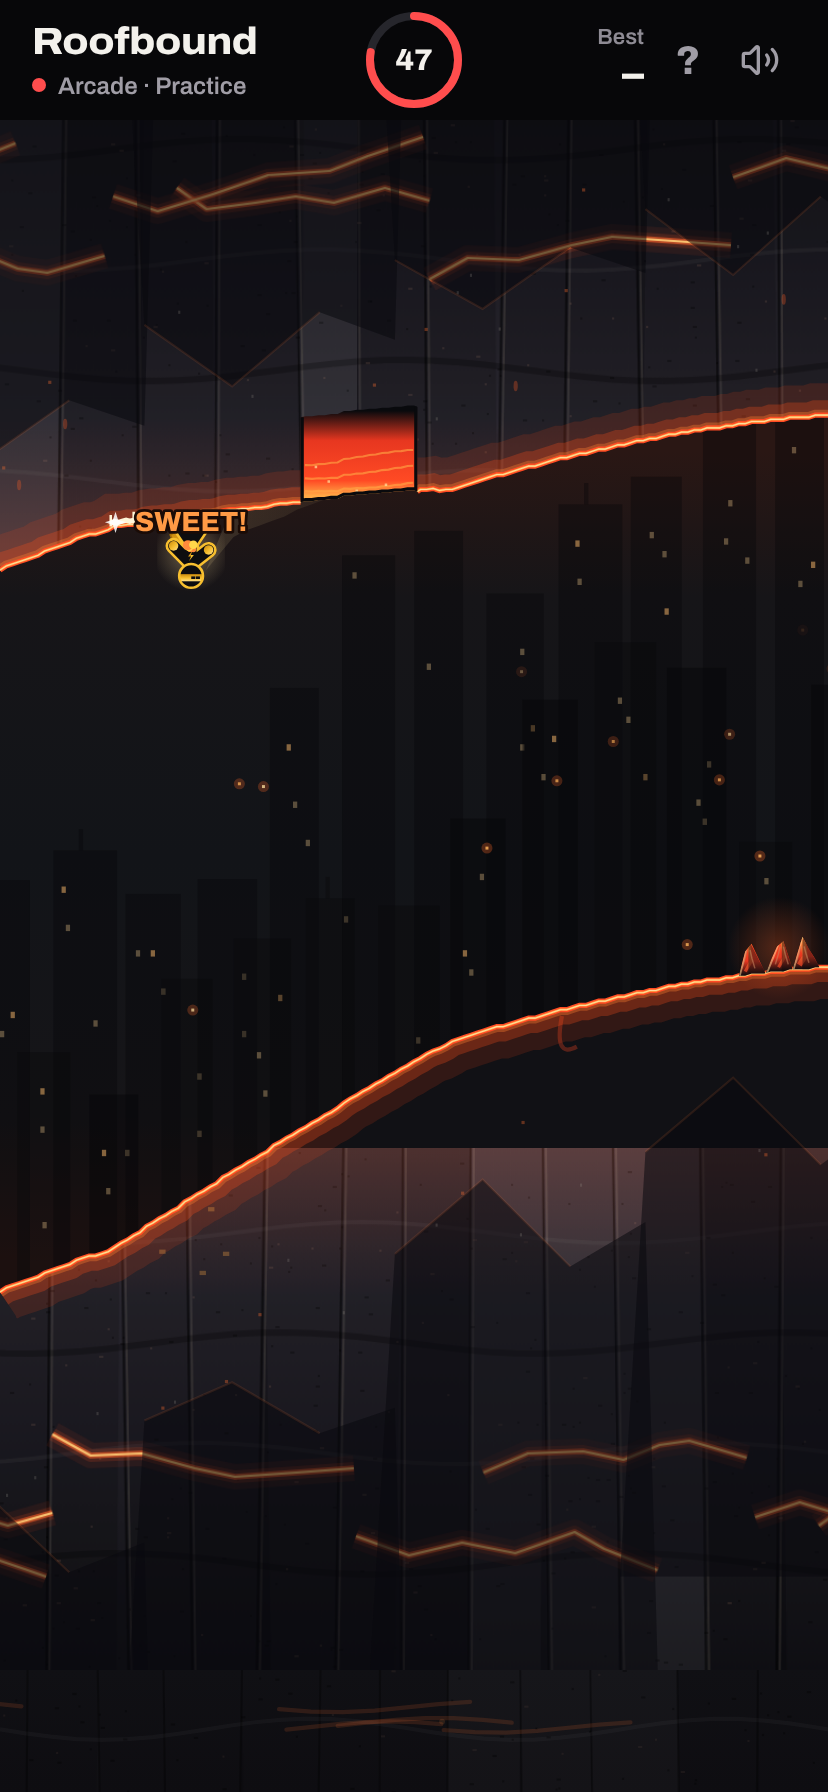
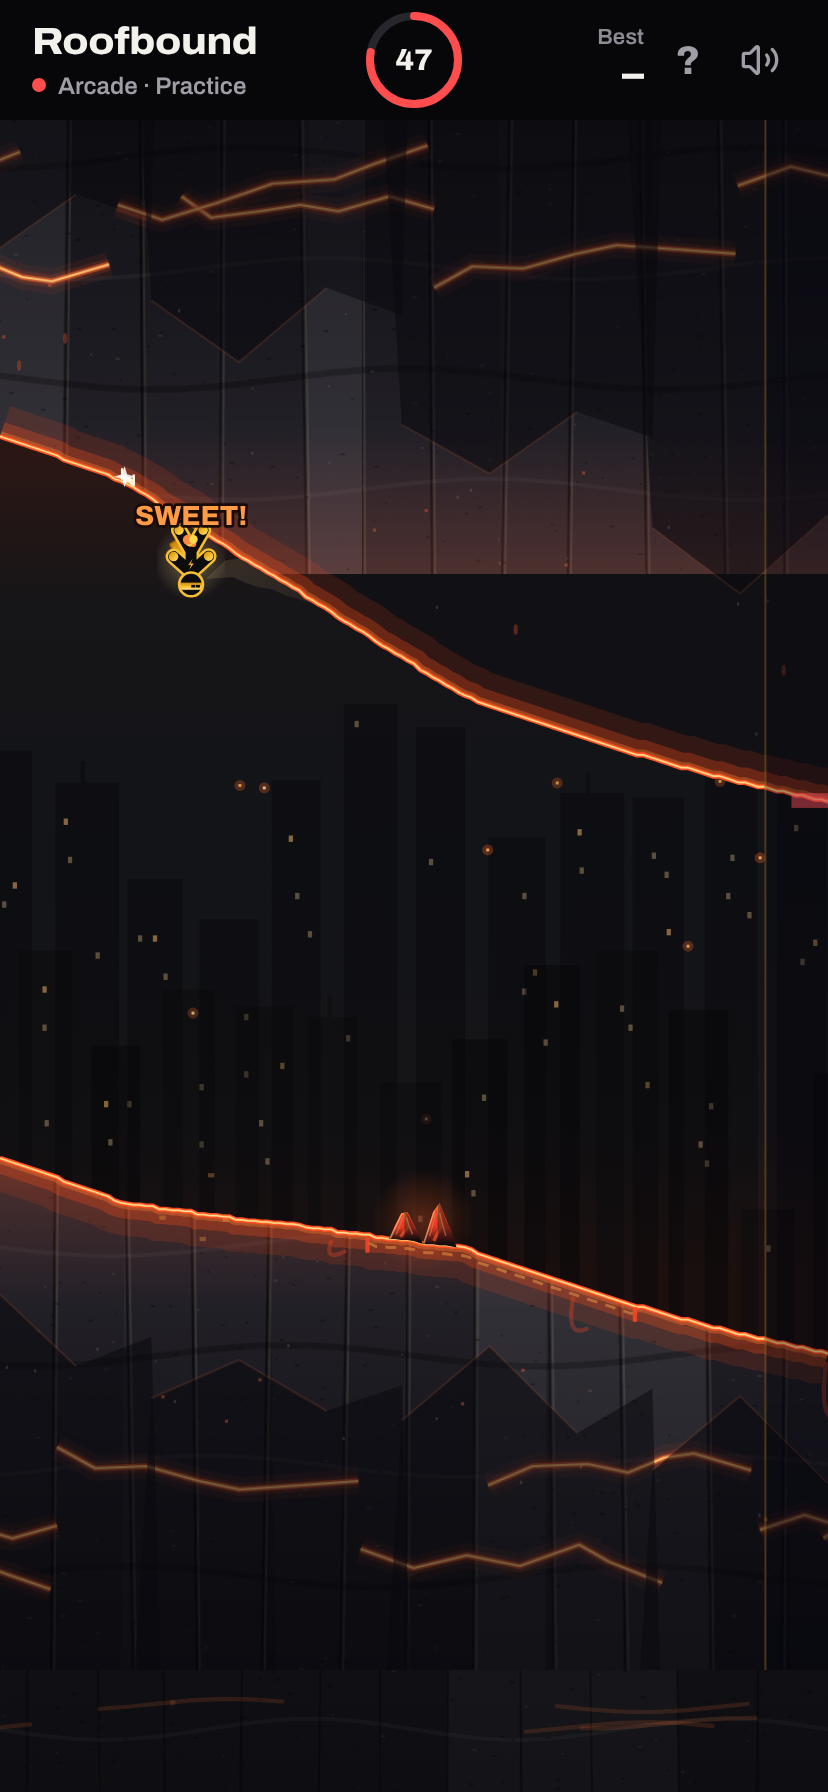
Roofbound flipRev 8, phase 2: the look-ahead strip in the help, screenshots, notes with both seed sets on the fixed bots
Claude-Session: https://claude.ai/code/session_01UG3aTDJSHREQsEn2vXbrXq

diff --git a/src/lib/duel/instructions.ts b/src/lib/duel/instructions.ts
@@ -939,6 +939,7 @@ function instructionTemplates(): Record<PuzzleType, PuzzleInstructions> {
         { action: "Double flips:", detail: "flip again within about an eighth of a second of landing with a hazard close by. A triple and longer chains count more, and twice as much in a speed zone.", helpOnly: true },
         { action: "Star trails:", detail: `${FLIP_V8_TRAILS} arcs of ${FLIP_V8_TRAIL_STARS} small stars, taken in the air. Leave the surface at the chevron and your flip sweeps through them.`, helpOnly: true },
         { action: "Sweet spots:", detail: `${FLIP_V8_SWEETS} roofs carry a short, faint pale strip. Time a flip so you touch down with your feet inside it for a sweet landing; it glints. Each counts once.`, helpOnly: true },
+        { action: "Look ahead:", detail: "a faint strip at the right edge shows what is coming next – hazards in red, gold stars and sweet spots – before it scrolls in.", helpOnly: true },
         { action: "Checkpoints (15, 30 and 45 s):", detail: "pass one and your next crash is saved – a second of shield, but your survival time pauses for 10 seconds.", helpOnly: true },
       ],
       score: liveBandHelp("flip", "Each half second you last counts 1 and each gold star 3.", {

diff --git a/docs/expansions/x200-flip.md b/docs/expansions/x200-flip.md
@@ -30,8 +30,9 @@ flip-x200-check on stored flipRev 6 runs).
 
 ## The new feature: sweet spots
 
-Each course has **eight sweet spots** (`FLIP_V8_SWEETS`): a short strip of roof, `FLIP_V8_SWEET_TICKS` = 2 ticks of travel
-long (about 8–14 px early in the run, 20–28 px late), placed by the seed near 6.5, 13, 19.5, 26, 32.5, 39, 45.5 and 52 s on
+Each course has **eight sweet spots** (`FLIP_V8_SWEETS`): a short strip of roof, `FLIP_V8_SWEET_TICKS` = 1 tick of travel
+long (about 4–7 px early in the run, 10–14 px late: exactly one landing tick fits, so a sweet landing needs the flip timed
+to the tick), placed by the seed near 6.5, 13, 19.5, 26, 32.5, 39, 45.5 and 52 s on
 one surface, on clear roof (no hazard, gap, crumble or moving spike's sweep within reach of it). A **sweet landing** is the
 tick a flip ends (`flipT` 1 → 0) with the runner's centre inside an untaken strip on its surface (`flipSweetLanding`); each
 spot counts once (`sweetGot` bits; `sweetT` the tick, for the glint). Running or standing over a strip never counts. Like
@@ -50,13 +51,24 @@ every other feature, the spots come only from the stored course, the same for ev
 ## Scoring (`flipV8Parts`, `flipV8Features`)
 
 - **Base** (the rev-6 shape): units = half seconds survived (the paused ticks left out) + 3 per gold star, on
-  `FLIP_V8_BAND_CURVE` (units 0 / 40 / 105 / 130 / 140 / 146 / 150 → 0 / 16 / 56 / 65 / 69 / 127 / 140), plus 10 for lasting
+  `FLIP_V8_BAND_CURVE` (units 0 / 40 / 105 / 130 / 140 / 146 / 150 → 0 / 11 / 33 / 38 / 43 / 95 / 140), plus 10 for lasting
   the minute: 150 at most, only for the full minute with all ten stars.
 - **Skill** (0–50): raw points 4 a full trail, 4 a sweet landing, 3 a speed zone run without a save, 3 a checkpoint reached
-  with no crash, and double-flip combo points up to 4 (`FLIP_V8_COMBO_CAP`), paid on `FLIP_V8_SKILL_PAY` (raw 12 / 32 / 49 /
-  57 / 63 → 3 / 4 / 26 / 39 / 50): a little feature play pays little; the full 50 needs `FLIP_V8_SKILL_FULL` = 63 raw, which
+  with no crash, and double-flip combo points up to 6 (`FLIP_V8_COMBO_CAP`), paid on `FLIP_V8_SKILL_PAY` (raw 12 / 30 / 37 /
+  61 / 63 → 0 / 1 / 7 / 30 / 50): a little feature play pays little; the full 50 needs `FLIP_V8_SKILL_FULL` = 63 raw, which
   is every trail, sweet spot, zone and checkpoint (or near it with combos on top).
 - **Total**: base + skill, capped at 200; no input scores 0. The reveal's lines add up to it (`bandLines`).
+
+## Look-ahead strip (phase 2, 26 Oct)
+
+Session A's fixed bots found gold stars that became readable too late, even for a flawless player, on 31 of 200 seeds: at
+top speed the 300 px of view ahead of the runner is barely two flips. flipRev 8 now **announces the course
+`FLIP_V8_PREVIEW` = 180 px early**: the next stretch is squeezed into a faint strip along the view's right edge (30 px,
+`drawPreviews`), each hazard a short red mark on its surface, each gold star a small gold diamond and each sweet spot a pale
+notch (display only; nothing in it collides). The course builder proves every gold star and sweet spot **readable from
+there**: from every settled runner (on either surface) a reaction time (12 ticks) after the item enters the strip, a route
+still takes it (players may flip again 6 ticks after a landing in this proof; the route proofs keep 14). The skill-band bot
+reads hazards, stars and sweet spots from the strip on flipRev 8 (all levels; earlier stamps are unchanged).
 
 ## The guarantee (the arcade rule)
 
@@ -74,74 +86,64 @@ every trail, sweet spot, clean zone and clean checkpoint (raw 63 → skill 50): 
   search on the sim) on each of those 260 seeds replays through the server's encode + replay to exactly 200: the **lowest
   perfect-play ceiling is 200** on both sets (flip-x200-check).
 - Rooms draw any seed (`arcadeSeed`); `bun scripts/flip-x200-seeds.ts --n=2000` builds 2,000 seeds spread over that range:
-  0 without the full opportunities (74 ms a course). The fallback in `flipCourseV8` was never reached.
+  0 without the full opportunities (about 250 ms a course with the readability proof). The fallback in `flipCourseV8` was never reached.
 - Room identity: `scripts/x200/flip.ts` (arcade-room-schedule-check) plays six room deals with idle, random, weak, good and
   elite input; every scheduled item (hazards and slides, heights, zones, checkpoints, stars, trails, sweet spots) reads the
   same in every run, and the opportunity counts agree.
 
-## Tuning
+## Tuning (phase 2: #175's fixed bots)
 
-Paired runs (the same seeds for every level), every run through the server's encode + replay:
-`bun scripts/arcade-skill-bands.ts flip --rev=x --levels=weak,average,good,great,near,elite,random --seeds=60` (tuning,
-indices 0–59) and `--seeds=200 --from=10000` (fresh, never tuned on). "Old" is flipRev 6 (LIVE_BANDS' `strictRev`, max 150);
-new is flipRev 8 (max 200). Median / p90 / best; zero scores in brackets. `bun scripts/flip-x200-bands.ts` gives the same
-runs with each feature's raw points.
+Paired runs (the same seeds for every level), every run through the server's encode + replay, with #175's fixed bots
+(`ctx.fixes`) and this game's flipRev 8 feature chasing: `bun scripts/arcade-skill-bands.ts flip --rev=x
+--levels=weak,average,good,great,near,elite,perfect,random --seeds=60` (tuning) and `--seeds=200 --from=10000` (fresh,
+measured once, at the end). "Old" is flipRev 6 (LIVE_BANDS' `strictRev`, max 150) with the same fixed bots; new is flipRev 8.
+Median (p10–p90) as the tool prints them; min / max and zeros from its JSON.
 
-| Seeds | Level | New (max 200) median · p90 · best | Old median (max 150) | Median change |
+| Seeds | Level | New median (p10–p90) | New min / max | Old median (p10–p90) |
 |---|---|---|---|---|
-| Tuning (60) | Weak | 42 · 60 · 75 | 38 | +11 % |
-| Tuning (60) | Average | 73 · 91 · 120 | 73 | 0 % |
-| Tuning (60) | Good | 120 · 153 · 168 | 120 | 0 % |
-| Tuning (60) | Great | 140 · 163 · 179 | 120 | +17 % |
-| Tuning (60) | Near-perfect | 169 · 182 · 192 | 150 | +13 % |
-| Tuning (60) | Elite | 182 · 192 · 200 | 150 | +21 % |
-| Tuning (60) | Random | 2 · 4 · 5 | 2 | |
-| Fresh (200) | Weak | 38 · 60 · 80 (1 zero) | 38 | 0 % |
-| Fresh (200) | Average | 73 · 91 · 153 | 74 (1 zero) | −1 % |
-| Fresh (200) | Good | 101 · 147 · 168 (1 zero) | 100 | +1 % |
-| Fresh (200) | Great | 135 · 163 · 185 | 120 | +13 % |
-| Fresh (200) | Near-perfect | 163 · 185 · 192 | 150 | +9 % |
-| Fresh (200) | Elite | 179 · 192 · 200 | 150 | +19 % |
-| Fresh (200) | Random | 2 · 4 · 7 (4 zeros) | 2 (4 zeros) | |
+| Tuning (60) | Weak | 50 (7–116) | 1 / 150 | 38 (11–62) |
+| Tuning (60) | Average | 74 (45–150) | 0 / 164 (1 zero) | 72 (34–120) |
+| Tuning (60) | Good | 119 (46–153) | 0 / 160 (1 zero) | 120 (59–150) |
+| Tuning (60) | Great | 157 (94–168) | 9 / 180 | 120 (89–150) |
+| Tuning (60) | Near-perfect | 168 (138–180) | 57 / 200 | 150 (100–150) |
+| Tuning (60) | Elite | 180 (172–200) | 69 / 200 | 150 (147–150) |
+| Tuning (60) | Flawless | 200 (200–200) | 200 / 200 | 150 (120–150) |
+| Tuning (60) | Random | 1 (1–3) | 1 / 3 | 2 (2–4) |
+| Fresh (200) | Weak | 46 (4–87) | 1 / 150 | 40 (11–68) |
+| Fresh (200) | Average | 63 (8–116) | 1 / 153 | 74 (30–120), 1 zero |
+| Fresh (200) | Good | 119 (50–156) | 1 / 160 | 120 (61–150) |
+| Fresh (200) | Great | 157 (94–168) | 3 / 176 | 150 (100–150) |
+| Fresh (200) | Near-perfect | 172 (134–180) | 3 / 200 | 150 (120–150) |
+| Fresh (200) | Elite | 180 (172–200) | 3 / 200 | 150 (150–150) |
+| Fresh (200) | Flawless | 200 (200–200) | 200 / 200 | 150 (150–150) |
+| Fresh (200) | Random | 1 (1–3) | 0 / 4 (4 zeros) | 2 (2–4), 4 zeros |
 
-No other zero scores; no run flagged or disagreeing with the server replay (3,640 runs). On the old revision good's median
-moves with the seed set (120 tuning, 100 fresh) because flipRev 6's curve jumps 20 points for a ninth star; flipRev 8's good
-median is 120 and 101, within 1 % of both.
+No run flagged or disagreeing with the server replay. The tuning set's two zeros (one average, one good) are a slip at the
+first hazard: the planned flip came a few ticks too late, after the crash, so the run has no input and scores 0 under the
+existing no-input rule; none on the fresh seeds.
 
-**Second fit (26 Oct, after the merge).** The first fit (base 15 / 51 / 73 / 79 / 123, pay 1 / 2 / 28 / 36 at raw 12 / 32 /
-51 / 54, combos up to 6) gave near-perfect 170 · 183 on the tuning seeds but 162 · 187 on the fresh ones. One more fit,
-on the tuning seeds only and scored on bootstrap resamples of them, aimed at the middle of the band (near-perfect median
-170, p90 ≤ 181) and tried flatter tops to the base curve (the last 4 units capped at 12–40 points). A flatter top did not
-narrow near-perfect's spread: its top decile is the runs with every star and most features, whatever the split. The best
-fit (the one above: the top 146 → 150 worth 13 points instead of 17, the pay steeper from 49 raw, combos up to 4) was
-measured on the fresh seeds once.
+**The bar** (Joe's, confirmed 26 Oct): good 119 / 119 against 120 / 120 (within 1 %); near-perfect 168 / p90 180 (tuning)
+and 172 / p90 180 (fresh); elite 180 / p90 200 on both; **flawless 200 on every one of the 260 seeds**; random 1. Met on both
+sets. Average is 74 on the tuning seeds and 63 on the fresh ones (−15 % against 74; the bar names no figure for average).
 
-**Feature payout by level** (medians; tuning / fresh): sweet landings 0 / 0 weak, 0 / 0 average, 1 / 1 good, 2 / 2 great,
-4 / 4 near-perfect, 6 / 6 elite (raw 4 each); skill pay 2, 3, 3, 13, 29, 42 (both sets).
+**Feature payout by level** (tuning medians): sweet landings 0 weak, 0 average, 1 good, 2 great, 4 near-perfect, 6 elite,
+8 flawless (raw 4 each); skill pay 0, 0, 3, 10, 22, 30, 50.
 
-**What changed from the parked tuning.** The parked expansion paid its features straight (trails 5, combo up to 15, zones
-3, checkpoints 3, capped at 50), so a good player already collected about 30 and near-perfect players often the full 50
-(near-perfect 158 · 200 · 200). Now the skill points are paid on the rising scale, the base curve is refitted with them, the
-near-perfect and elite players differ mostly in sweet landings and full trails (the precision the elite tier's tighter timing
-and full feature chasing buys), and good stays within about 10 % of its old median.
+**How it gets there.** The sweet spot is one landing tick wide (was 2), so it needs the flip timed to the tick: near-perfect
+lands half of them, elite three quarters, flawless all. The skill pay is steep at the top (61 raw pays 30, the full 63 pays
+50), so the near-perfect top 10 % (raw about 61) stays at 180 while the elite top 10 % reaches 200. The base curve's last
+stretch is steep too (146 → 150 units, the last gold star, is worth 45 points), as flipRev 6's own curve is (its last star
+is worth 30).
 
-**The bar.** Tuning: met (good 120 vs 120; near-perfect 169 / p90 182; elite 182 / p90 192; weak and average at or above
-their old medians; random ≤ 5). Fresh: met for good (101 vs 100), elite (179 / p90 192) and random; **near-perfect is just
-outside**: median 163 against 165–175, p90 185 (the bar's "about 185"). Its median moves with how many of the ten gold stars
-the seed set lets it take, on the steep top of the base curve (the old revision's own steep top moves good by 20 between
-the two sets). Two runs scored 0 on fresh seeds (one weak, one good: the bot never tapped before
-the first hazard, so "no input scores 0"); flipRev 6 has the same bot artefact (one average and four random zeros on the same
-seeds).
-
-**Bots** (`scripts/arcade-skill-bands/bots/flip.ts`): the parked bot, plus sweet spots (decided on first sight, kept only
-while a route over the known stretch lands in one, aimed with the level's timing jitter: 25 / 45 / 65 / 80 % of spots tried
-for average / good / great / near-perfect), the tiers (weak: stars 35 %, trails 20 %, combos 5 %, sweet spots 12 %; elite:
-every star, trail and sweet spot, combos 95 %, with the elite profile's own timing and random stream) and `randomBot` (taps
-at random, about 1.5 a second, no aim).
+**Bot** (`scripts/arcade-skill-bands/bots/flip.ts`): #175's fixed bot, its old-stamp play unchanged (proved event for event
+against #175's bot on flipRev 6, 4 and unstamped, every level, fixes on and off), plus flipRev 8's feature chasing: trails,
+double flips and sweet spots per level (weak … flawless), the look-ahead strip, a sweet landing only aimed for while a flip
+a tick or two off (none for flawless) still lives, and no double flip that costs a planned item or leaves only a
+hair-trigger rescue. Elite and flawless keep wanting an item a plan could not fit yet, take the first comfortable flip
+window, and stop chasing combos past the cap or with an announced gold star still to take.
 
 **Fitting**: the curves were fitted on the 60 tuning seeds only (a search over the base knots and the pay scale, scored on
-bootstrap resamples of those seeds so a fit that only held on one sample lost); the sweet spot's length went 5 → 3 → 2
-ticks in the same tuning, so that it is a precision test that separates elite from near-perfect play.
+bootstrap resamples of those seeds); the fresh seeds were measured once, after the fit.
 
 ## Replay coverage
 
@@ -175,18 +177,19 @@ parked expansion's frames: trail, double flip, zone, moving spike, checkpoint, t
 
 ## Checks
 
-Local, 26 Oct 2026 (a machine shared by four workers, so browser frame times run high):
+Local, 26 Oct 2026, after phase 2 (on the PR branch with #175 merged; a machine shared by four workers, so browser frame
+times run high):
 
-- PASS: flip-x200-check (677 checks, ~20 s: legacy replay, stamp, courses, the 260-seed guarantee and witnesses, sweet-spot
-  rules on 1,703 landings, caps, saves, idle and random play, stored flipRev 8 runs, texts), arcade-room-schedule-check
-  (Roofbound's lines: 6 deals × 5 styles, every scheduled item identical; the check itself fails only on the three other
-  games' missing modules), round-max-check, scoring-bands-check, scoring-targets-check, arcade-score-bands-check,
-  arcade-help-bands-check, intro-score-text-check, reveal-score-check, replay-check, arcade-self-replay-check (whole run,
-  plus the new `flip/x200` entry and every flip entry at 40 runs), arcade-fx-check, sound-manifest-check,
-  practice-bests-check, arcade-batch1-check, arcade-tuning-c-check, flip-bend-check, hotfloor-flip-check,
-  bullseye-cross-flip-tuning-check, arcade-correction-check, depth-matchmaker-check, intro-demo-check, whack-check,
-  presentation-geometry-check, arcade-play-check flip (frame 27.1 ms against the 17.0 baseline under load, within limits),
-  bottom-clearance-check flip, arcade-fill-check flip; `bunx tsc --noEmit` clean.
+- PASS: flip-x200-check (677 checks, ~30 s: legacy replay, stamp, courses, the 260-seed guarantee and witnesses, sweet-spot
+  rules, caps, saves, idle and random play, stored flipRev 8 runs, texts), scoring-bands-check, scoring-targets-check,
+  arcade-help-bands-check, intro-score-text-check, replay-check, round-max-check, sound-manifest-check, practice-bests-check,
+  arcade-fx-check, reveal-score-check, arcade-self-replay-check (the five flip entries, `flip/x200` included, at 40 runs),
+  arcade-batch1-check, arcade-tuning-c-check, flip-bend-check, hotfloor-flip-check, arcade-score-bands-check,
+  intro-demo-check, arcade-play-check flip (26.4 ms against the 17.0 baseline, within limits; 43 ms when run alongside the
+  fresh band run), arcade-fill-check flip, bottom-clearance-check flip; `bunx tsc --noEmit` clean.
+- arcade-room-schedule-check: Roofbound's lines pass (6 deals × 5 styles, 539 scheduled items identical); the check stops
+  on Hover's module, which imports a `randomBot` that #175's fixed `bots/hover.ts` no longer exports (the Hover port, not
+  Roofbound).
 - Not run here (the coordinator runs them after merging): arcade-room-practice-check, arcade-lowend-check (which does not
   cover Roofbound).
 
@@ -196,6 +199,8 @@ Local, 26 Oct 2026 (a machine shared by four workers, so browser frame times run
   its roofs (stretches of clear surface), placed by the seed, rather than one on every stretch (whose number varies).
 - The landing is judged on the runner's centre (its feet), the tick the flip's arc ends; the strip is drawn over exactly
   that x-span. A double flip off a sweet spot still counts the landing.
+- The look-ahead strip (phase 2) is a display change Joe has not seen yet: it answers Session A's finding that stars were
+  readable too late; the strip and its proof could instead be a wider view if he prefers.
 - The checkpoint saved-crash rule is kept from the parked expansion as Joe listed it, flagged for his confirmation.
 - Combos are not needed for the ceiling (the full skill pay needs only the guaranteed items), so a seed's number of combo
   chances never limits the top; they add raw points on top (up to 4).
